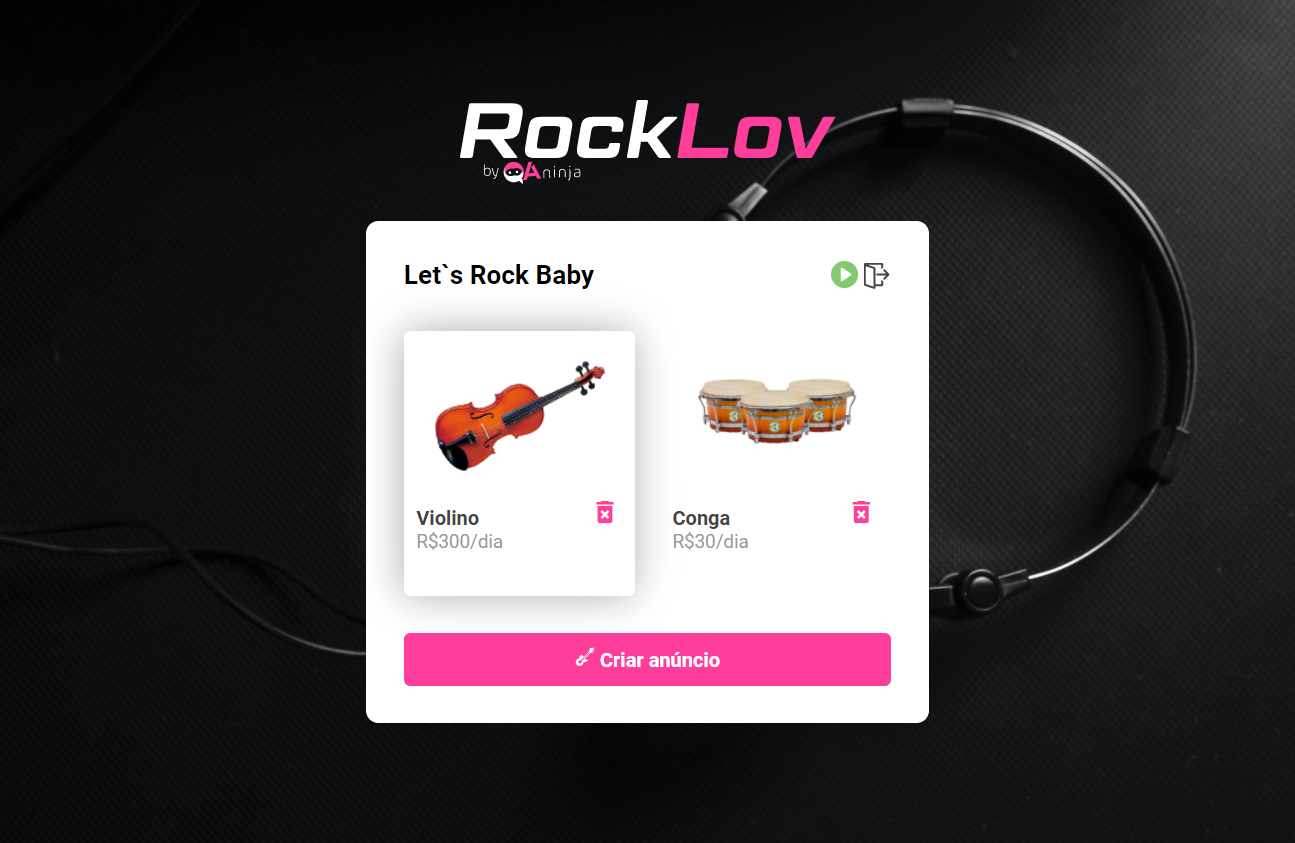
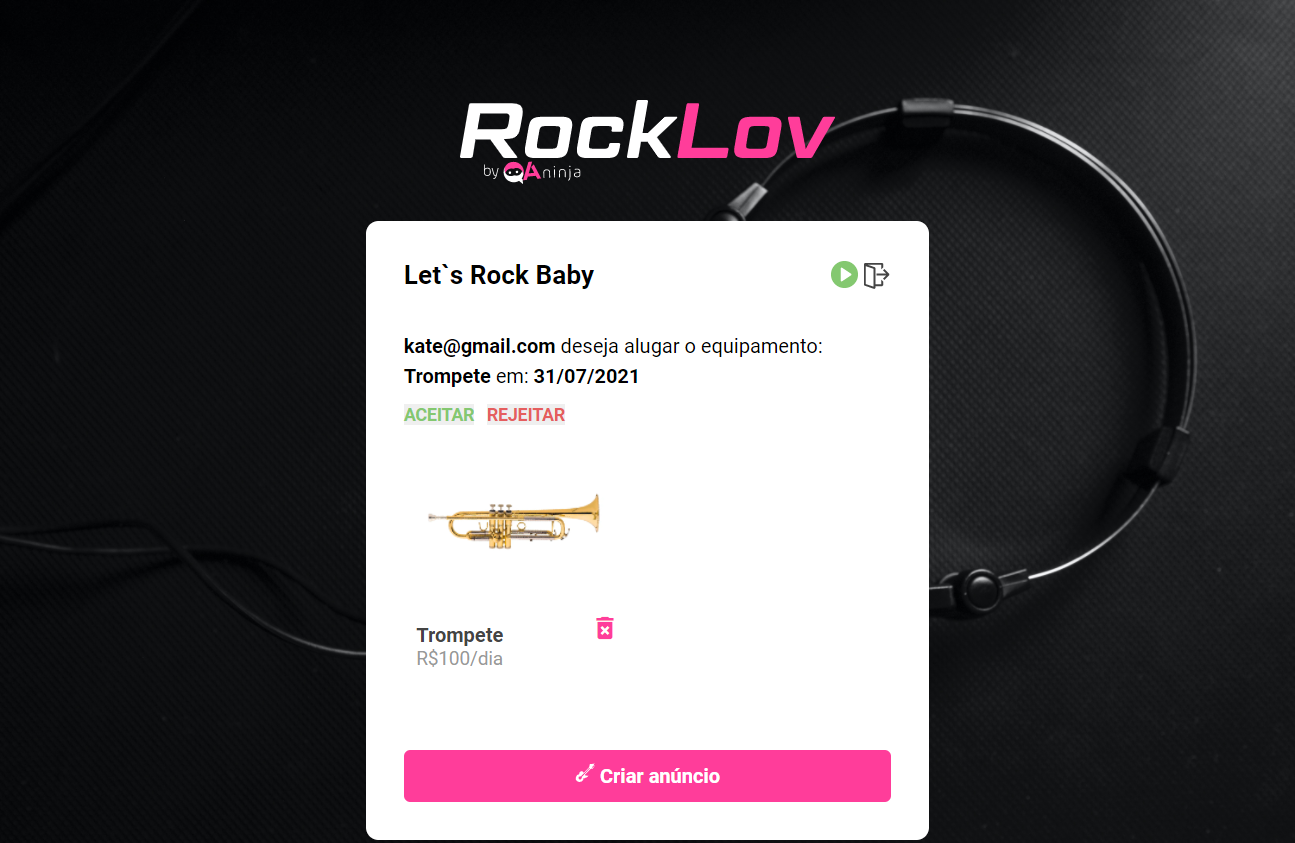
Implementando a pre-condição do locatario

Changed region(s): [[0.278, 0.3701, 0.7413, 1.0], [0.6486, 0.586, 0.6795, 0.6168]]

diff --git a/web/features/step_definitions/pedidos_steps.rb b/web/features/step_definitions/pedidos_steps.rb
@@ -31,7 +31,10 @@ Dado("acesso o meu dashboard") do
   expect(@dash_page.on_dash?).to be true
 end
 
-Quando("{string} e {string} solicita a locação desse equipo") do |string, string2|
+Quando("{string} e {string} solicita a locação desse equipo") do |email, password|
+  # Id do usuário capturado pelo metodo criado em SessionsService.
+  user_id = SessionsService.new.get_user_id(email, password)
+  EquiposService.new.booking(@equipo_id, user_id)
 end
 
 Então("devo ver a seguinte mensagem:") do |doc_string|

diff --git a/web/features/support/services/sessions_service.rb b/web/features/support/services/sessions_service.rb
@@ -1,0 +1,17 @@
+require_relative "base_service"
+
+class SessionsService < BaseService
+  def get_user_id(email, password)
+    payload = { email: email, password: password }
+    # Em vez de HTTParty usa-se o self.class por conta do include HTTParty.
+    result = self.class.post(
+      "/sessions",
+      body: payload.to_json,
+      headers: {
+        "Content-Type": "application/json",
+      },
+    )
+    # Retorna somenteo id do usuario.
+    return result.parsed_response["_id"]
+  end
+end

diff --git a/web/features/support/services/equipos_service.rb b/web/features/support/services/equipos_service.rb
@@ -12,4 +12,15 @@ class EquiposService < BaseService
       },
     )
   end
+
+  def booking(equipo_id, user_locator_id)
+    return self.class.post(
+             "/equipos/#{equipo_id}/bookings",
+             body: { date: Time.now.strftime("%d/%m/%Y") }.to_json,
+             headers: {
+               "Content-type": "application/json",
+               "user_id": user_locator_id,
+             },
+           )
+  end
 end
